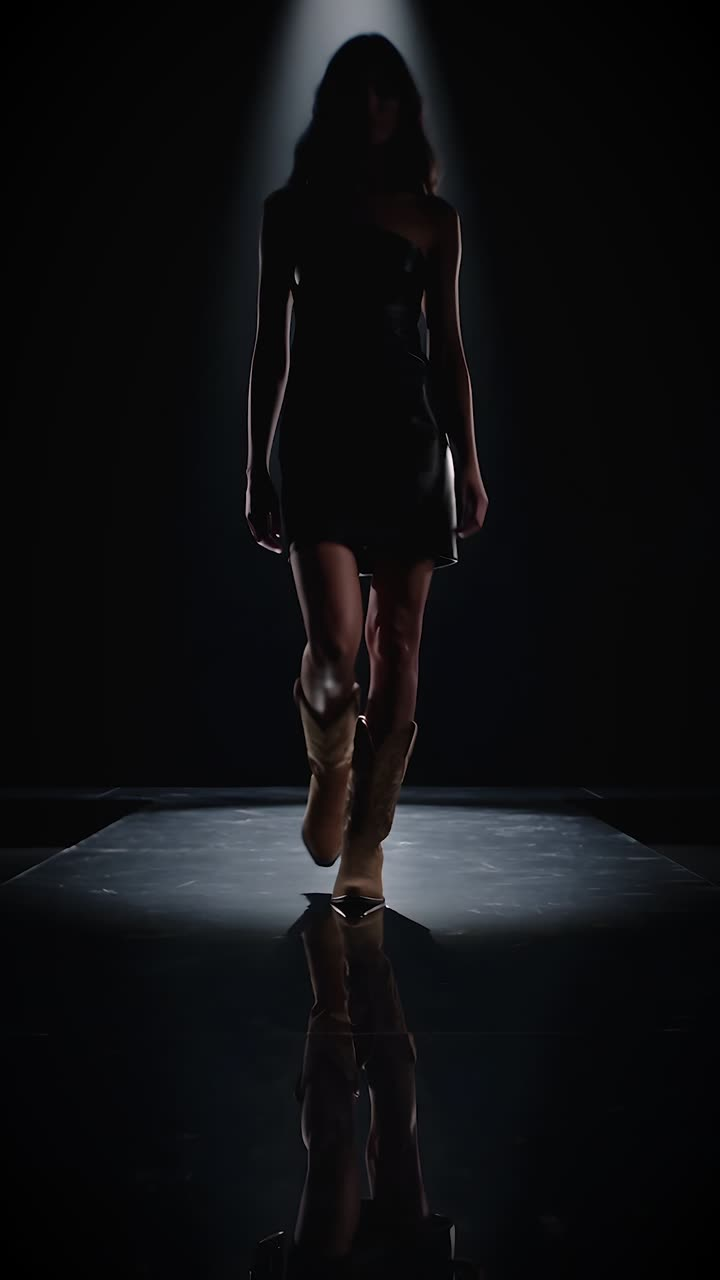
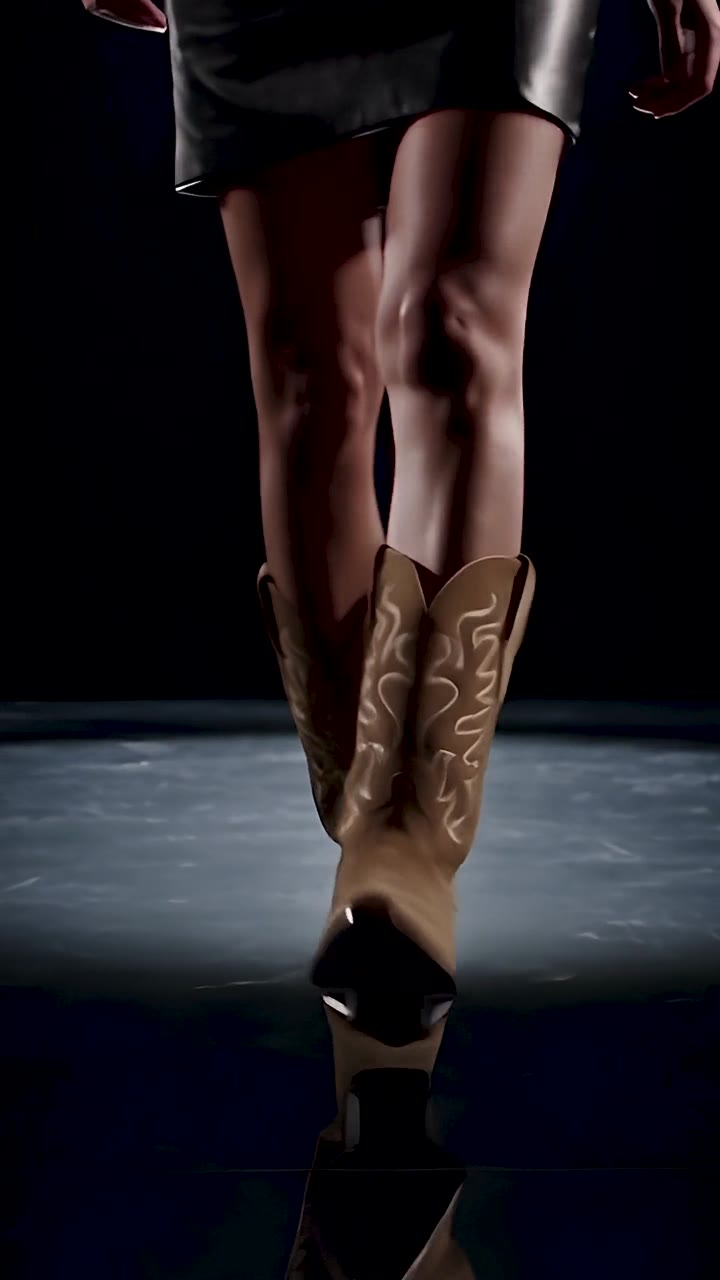
Work slideshow: a clicked card plays in place; CASANORTE poster (#35)
* Add Sporta kapas and Endzistyle to the work slideshow and /video

Endzistyle: from Endzistyle_final3_master 1920x1080 (no watermark), lanczos to 2560x1440 + light sharpen, no audio.
Sporta kapas: from Kapas_Premium_v06 1080x1920, lanczos to 1440x2560 + light sharpen, no audio.

Claude-Session: https://claude.ai/code/session_01G7VjD2D4dVwMrWkf7Z5QzS

* Show every clip in the same 9:16 card on the homepage slideshow and /video

16:9 clips sit whole in the middle of the card on a blurred copy of their poster. /video rows hold four cards; the 'Jūsu reklāma' slot is one card.

Claude-Session: https://claude.ai/code/session_01G7VjD2D4dVwMrWkf7Z5QzS

* Split work by shape and give phones light 720p video

Homepage: the strip holds the 9:16 clips; the 16:9 work sits under it, two to a row (one on a phone), each clip playing only while on screen.
/video: each shelf shows a grid of 9:16 cards, then a grid of 16:9 frames; every clip keeps its own shape.
Phones and tablets (<= 900px) load <file>-m.mp4 (720p, about 1.6 Mbps): the 14 work clips go from 58 MB to 23 MB.

Claude-Session: https://claude.ai/code/session_01G7VjD2D4dVwMrWkf7Z5QzS

* Work slideshow: a clicked card plays in place; CASANORTE poster from the runway

A card already fully in view turns on where it is instead of the strip jumping to the next one. While the strip scrolls to a clicked card, that card stays on.
CASANORTE poster was its dark title frame; now a runway frame at 4 s.
[…]

diff --git a/js/work.js b/js/work.js
@@ -53,14 +53,24 @@
     const vi = videoSlides.indexOf(slides[i]);
     now.textContent = pad(vi < 0 ? videoSlides.length : vi + 1);
     prev.disabled = i === 0;
-    next.disabled = i === slides.length - 1 || atEnd();
+    next.disabled = i >= slides.indexOf(videoSlides[videoSlides.length - 1]) && atEnd() || i === slides.length - 1;
     // keep the neighbour ready so the next swipe is instant
     if (inView) { play(video(slides[i])); load(video(slides[i + 1] || slides[i])); }
   };
 
+  // A card that is already fully in view turns on in place; otherwise the strip scrolls it to the edge.
+  // While that scroll runs, the chosen card stays on (the scroll handler must not pick its neighbour).
+  let pending = -1, settle = 0;
+  const fits = s => { const r = s.getBoundingClientRect(), t = track.getBoundingClientRect(); return r.left >= t.left - 2 && r.right <= t.right + 2; };
   const go = i => {
     i = Math.max(0, Math.min(slides.length - 1, i));
-    track.scrollTo({ left: track.scrollLeft + slides[i].getBoundingClientRect().left - edge(), behavior: reduce ? 'auto' : 'smooth' });
+    const target = Math.max(0, Math.min(track.scrollWidth - track.clientWidth, track.scrollLeft + slides[i].getBoundingClientRect().left - edge()));
+    if (Math.abs(target - track.scrollLeft) < 4 || fits(slides[i]) && slides[i].querySelector('.slide__video')) {
+      pending = -1; activate(i); return;
+    }
+    pending = i;
+    clearTimeout(settle); settle = setTimeout(() => { pending = -1; }, 900);
+    track.scrollTo({ left: target, behavior: reduce ? 'auto' : 'smooth' });
   };
   prev.addEventListener('click', () => go(current - 1));
   next.addEventListener('click', () => go(current + 1));
@@ -72,8 +82,13 @@
   let raf = 0;
   track.addEventListener('scroll', () => {
     cancelAnimationFrame(raf);
-    raf = requestAnimationFrame(() => { const i = nearest(); if (i !== current) activate(i); else next.disabled = atEnd(); });
+    raf = requestAnimationFrame(() => {
+      if (pending >= 0) { if (pending !== current) activate(pending); return; }
+      const i = nearest(); if (i !== current) activate(i); else next.disabled = current >= slides.indexOf(videoSlides[videoSlides.length - 1]) && atEnd();
+    });
   }, { passive: true });
+  // a swipe or wheel by hand ends any pending click
+  ['pointerdown', 'wheel', 'touchstart'].forEach(ev => track.addEventListener(ev, () => { pending = -1; }, { passive: true }));
 
   // tap a frame: bring that slide in, or play/pause it if it is already on
   slides.forEach((s, i) => {
